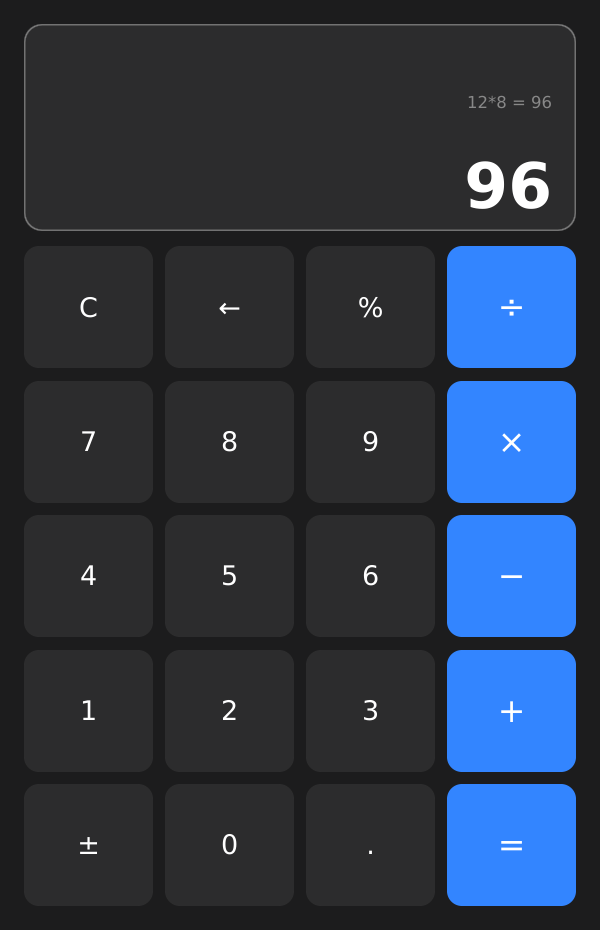
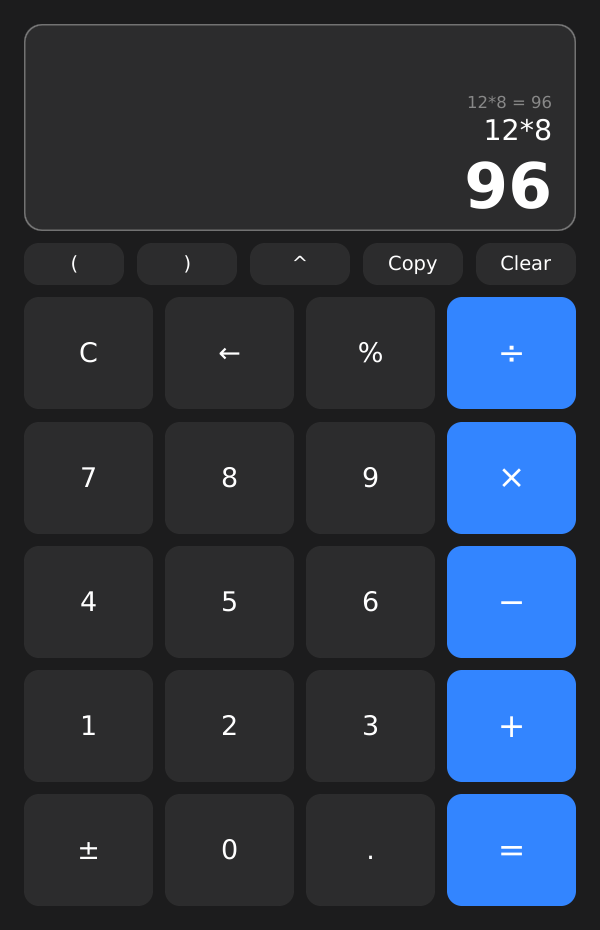
feat: polish the application and add the remaining interactions
Add the missing details and controls, with updated screenshots.

diff --git a/src/calculatorwindow.cpp b/src/calculatorwindow.cpp
@@ -6,7 +6,9 @@
 #include "core/calculator.h"
 
 #include "base/i18n.h"
+#include "base/timer.h"
 #include "ui/application.h"
+#include "ui/clipboard.h"
 #include "ui/keys.h"
 #include "ui/label.h"
 #include "ui/painter.h"
@@ -16,6 +18,7 @@
 
 #include <algorithm>
 #include <cctype>
+#include <chrono>
 #include <memory>
 #include <string>
 #include <vector>
@@ -48,6 +51,16 @@ public:
     }
 
     std::function<void()> onClicked;
+
+    void setText(std::string text)
+    {
+        if (m_text == text)
+            return;
+        m_text = std::move(text);
+        m_label->setText(m_text);
+        requestLayout();
+        requestPaint();
+    }
 
     bool acceptsPointer() const override { return true; }
 
@@ -123,7 +136,13 @@ public:
         m_resultLabel->setWeight(600);
         m_resultLabel->setElide(Label::Elide::Middle);
 
+        m_copiedTimer.setInterval(std::chrono::milliseconds(1400));
+        m_copiedTimer.onTimeout = [this] {
+            if (m_copyButton)
+                m_copyButton->setText(tr("Copy"));
+        };
         addKeys();
+        addUtilityKeys();
         refresh();
     }
 
@@ -135,6 +154,7 @@ public:
             if (std::isdigit(static_cast<unsigned char>(text.front())) || text == "." || text == "(")
                 m_expression.clear();
             m_result.clear();
+            m_lastExpression.clear();
             m_justEvaluated = false;
         }
         if (m_expression.size() + text.size() > kMaximumExpression)
@@ -160,8 +180,25 @@ public:
         } else {
             m_history.clear();
         }
+        m_lastExpression.clear();
         m_justEvaluated = false;
         refresh();
+    }
+
+    void clearHistory()
+    {
+        m_history.clear();
+        refresh();
+    }
+
+    void copyResult()
+    {
+        const std::string value = m_result.empty() ? std::string("0") : m_result;
+        Clipboard::setText(value);
+        if (m_copyButton) {
+            m_copyButton->setText(tr("Copied"));
+            m_copiedTimer.start();
+        }
     }
 
     void toggleSign()
@@ -191,6 +228,7 @@ public:
         m_history.push_back(expression + " = " + value.text);
         while (m_history.size() > size_t(kMaximumHistory))
             m_history.erase(m_history.begin());
+        m_lastExpression = m_expression;
         m_result = value.text;
         m_expression = value.text;
         m_justEvaluated = true;
@@ -234,7 +272,16 @@ protected:
         m_resultLabel->setGeometry({display.x + inner, display.bottom() - 54,
                                display.width - 2 * inner, 46});
 
-        const double top = display.bottom() + 10;
+        const double utilityTop = display.bottom() + 8;
+        const double utilityHeight = 28;
+        const double utilityGap = 8;
+        const double utilityWidth = (rect.width - 2 * margin - utilityGap * 4) / 5;
+        for (std::size_t i = 0; i < m_utilityButtons.size(); ++i) {
+            m_utilityButtons[i]->setGeometry({margin + i * (utilityWidth + utilityGap), utilityTop,
+                                              utilityWidth, utilityHeight});
+        }
+
+        const double top = utilityTop + utilityHeight + 8;
         const double width = rect.width - 2 * margin;
         const double height = rect.height - top - margin;
         const double gap = 8;
@@ -250,6 +297,16 @@ protected:
 
     bool keyPress(const KeyEvent& event) override
     {
+        if (event.modifiers & ControlModifier) {
+            if (event.key == key::letter('c')) {
+                copyResult();
+                return true;
+            }
+            if (event.key == key::letter('l')) {
+                clearHistory();
+                return true;
+            }
+        }
         if (!event.text.empty()) {
             const std::string& text = event.text;
             if (text.size() == 1) {
@@ -323,6 +380,34 @@ private:
         }
     }
 
+    void addUtilityKeys()
+    {
+        struct Utility
+        {
+            const char* text;
+            const char* action;
+        };
+        const Utility utilities[] = {
+                {"(", "("}, {")", ")"}, {"^", "^"}, {"Copy", "COPY"}, {"Clear", "CLEAR"},
+        };
+        for (const Utility& utility : utilities) {
+            CalcButton* button = addChild<CalcButton>(utility.text, false, 12.5);
+            const std::string action = utility.action;
+            button->onClicked = [this, action] {
+                if (action == "COPY") {
+                    copyResult();
+                } else if (action == "CLEAR") {
+                    clearHistory();
+                } else {
+                    append(action);
+                }
+            };
+            if (action == "COPY")
+                m_copyButton = button;
+            m_utilityButtons.push_back(button);
+        }
+    }
+
     void refresh()
     {
         const std::size_t count = m_history.size();
@@ -331,7 +416,7 @@ private:
                     count >= std::size_t(3 - i) ? count - std::size_t(3 - i) : count;
             m_historyLines[i]->setText(offset < count ? m_history[offset] : std::string());
         }
-        m_expressionLabel->setText(m_justEvaluated ? std::string() : m_expression);
+        m_expressionLabel->setText(m_justEvaluated ? m_lastExpression : m_expression);
         m_resultLabel->setText(m_result.empty() ? std::string("0") : m_result);
         requestLayout();
         requestPaint();
@@ -340,10 +425,14 @@ private:
     Label* m_historyLines[3] = {};
     Label* m_expressionLabel = nullptr;
     Label* m_resultLabel = nullptr;
+    CalcButton* m_copyButton = nullptr;
     std::vector<CalcButton*> m_buttons;
+    std::vector<CalcButton*> m_utilityButtons;
     std::string m_expression;
     std::string m_result;
+    std::string m_lastExpression;
     std::vector<std::string> m_history;
+    base::Timer m_copiedTimer;
     bool m_justEvaluated = false;
 };
 
@@ -362,7 +451,9 @@ CalculatorWindow::~CalculatorWindow() = default;
 void CalculatorWindow::append(const std::string& text) { m_root->append(text); }
 void CalculatorWindow::backspace() { m_root->backspace(); }
 void CalculatorWindow::clear() { m_root->clear(); }
+void CalculatorWindow::clearHistory() { m_root->clearHistory(); }
 void CalculatorWindow::evaluate() { m_root->evaluate(); }
+void CalculatorWindow::copyResult() { m_root->copyResult(); }
 const std::string& CalculatorWindow::expression() const { return m_root->expression(); }
 std::string CalculatorWindow::result() const
 {

diff --git a/tests/ui_test.cpp b/tests/ui_test.cpp
@@ -4,8 +4,11 @@
 #include "calculatorwindow.h"
 
 #include "ui/application.h"
+#include "ui/clipboard.h"
 
 #include <gtest/gtest.h>
+
+#include <string>
 
 int main(int argc, char **argv)
 {
@@ -37,4 +40,27 @@ TEST(CalculatorWindow, ClearsAndBackspaces)
     window.clear();
     EXPECT_TRUE(window.expression().empty());
     EXPECT_EQ(window.result(), "0");
+}
+
+TEST(CalculatorWindow, HandlesParenthesesAndPowers)
+{
+    calculator::CalculatorWindow window;
+    window.append("(2+3)^2");
+    window.evaluate();
+    EXPECT_EQ(window.result(), "25");
+}
+
+TEST(CalculatorWindow, CopiesTheResultAndClearsHistory)
+{
+    calculator::CalculatorWindow window;
+    window.append("6*7");
+    window.evaluate();
+    window.copyResult();
+    std::string copied;
+    Lingmo::ui::Clipboard::requestText([&copied](std::string text) { copied = std::move(text); });
+    EXPECT_EQ(copied, "42");
+    ASSERT_EQ(window.history().size(), 1u);
+    window.clearHistory();
+    EXPECT_TRUE(window.history().empty());
+    EXPECT_EQ(window.result(), "42");
 }

diff --git a/src/calculatorwindow.h b/src/calculatorwindow.h
@@ -33,7 +33,9 @@ public:
     void append(const std::string &text);
     void backspace();
     void clear();
+    void clearHistory();
     void evaluate();
+    void copyResult();
 
     const std::string &expression() const;
     std::string result() const;

diff --git a/README.md b/README.md
@@ -6,7 +6,7 @@ A native Lingmo OS calculator with exact decimal arithmetic.
 
 - `+`, `-`, `*`, `/`, `^`, parentheses and percentages
 - Exact decimals through the HMath engine
-- Keyboard input and a history of recent calculations
+- Keyboard input, result copy and a history of recent calculations
 - Light and dark themes
 
 ## Build
